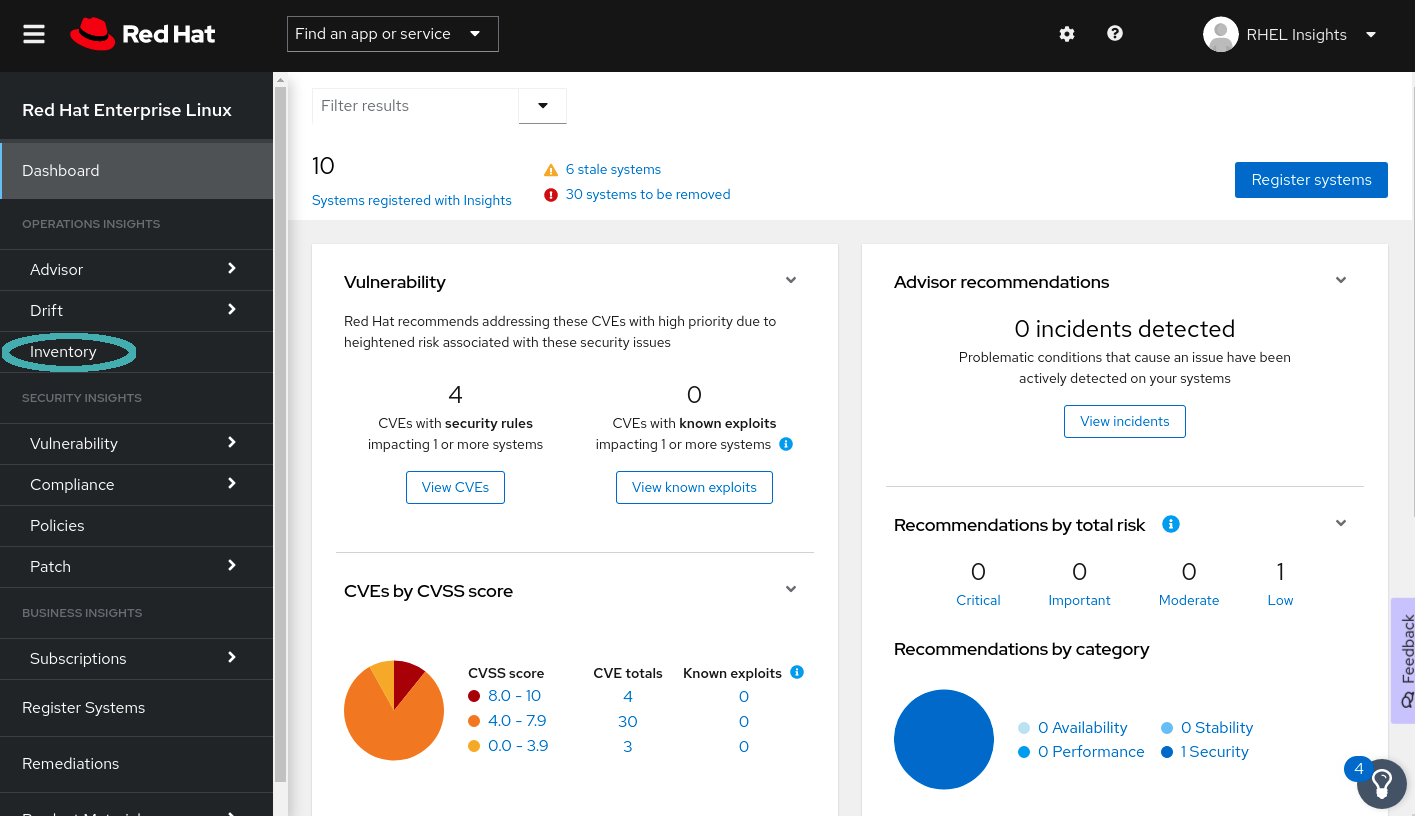
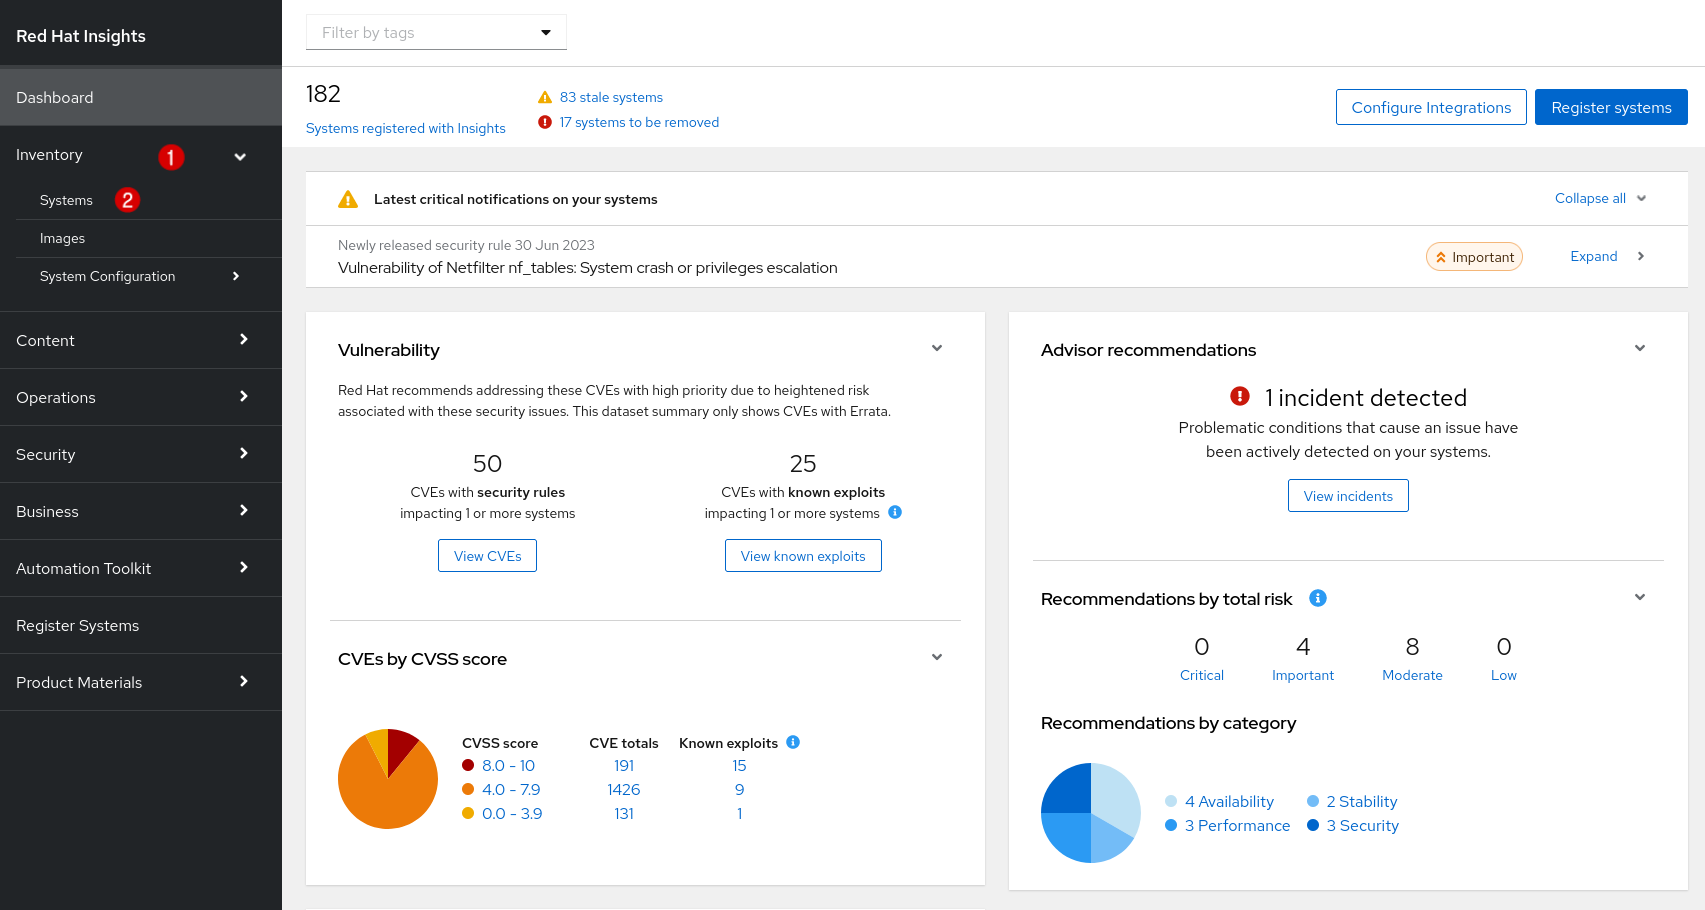
insights-workshop Fixes #218

diff --git a/insights-workshop/02-insights-login/assignment.md b/insights-workshop/02-insights-login/assignment.md
@@ -18,7 +18,7 @@ Click the hyperlink or browse to [cloud.redhat.com](https://cloud.redhat.com) to
 
 >_NOTE:_ This will open an additional browser window or tab.
 
-Click the _Log in to your Red Hat account_ button.
+Click the _Log in to the console_ button.
 
 ![cloud.redhat.com Login](../assets/cloud.redhat.com-homepage-v2.png)
 
@@ -40,6 +40,6 @@ Redhat1!
 
 ![Red Hat Password screen](../assets/redhat-login-02.png)
 
-Once you are logged in, using the credentials provided above, navigate to _Red Hat Enterprise Linux_ in the left-side navigation menu.
+Once you are logged in using the credentials provided above, navigate to _RHEL_ inside the _Red Hat Insights_ box.
 
-![cloud.redhat.com Homepage](../assets/cloud.redhat.com-homepage-postlogin-v2.png)
+![cloud.redhat.com Homepage](../assets/RHEl_insights_select.png)

diff --git a/insights-workshop/03-navigation/assignment.md b/insights-workshop/03-navigation/assignment.md
@@ -15,7 +15,7 @@ Now that you have opened Red Hat Insights for Red Hat Enterprise Linux, you will
 
 ![Insights Homepage](../assets/insights-homepage-v2.png)
 
-For the purposes of this exercise, you are working with a single machine registered to Insights and we will focus on the Advisor recommendations available for that host.  Click on the _Inventory_ link on the left navigation bar.
+For the purposes of this exercise, you are working with a single machine registered to Insights and we will focus on the Advisor recommendations available for that host.  Click on the _Inventory_ link on the left navigation bar. Then, click on _Systems_.
 
 ![Navigate to Inventory](../assets/insights-homepage-inventory-highlight.png)
 
